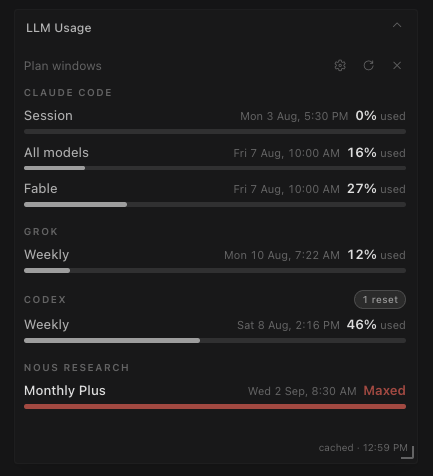
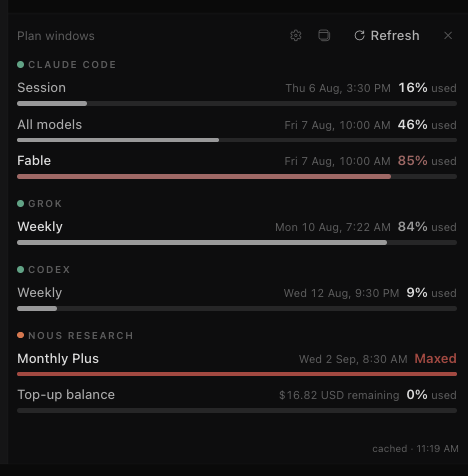
docs: update usage panel screenshot to show availability dots (#6)
Refreshes assets/llm-usage-panel.png with the dark-theme capture showing
the provider connection-health dots (green verified, orange exhausted with
top-up remaining) and updates the README alt text.

diff --git a/README.md b/README.md
@@ -16,7 +16,7 @@
 </p>
 
 <p align="center">
-  <img src="assets/llm-usage-panel.png" alt="Floating LLM Usage panel showing plan windows for Claude Code, Grok, Codex, and Nous Research" width="433">
+  <img src="assets/llm-usage-panel.png" alt="Floating LLM Usage panel showing provider connection-health dots and plan windows for Claude Code, Grok, Codex, and Nous Research" width="433">
 </p>
 
 At-a-glance plan windows for the providers you actually use inside Hermes:
